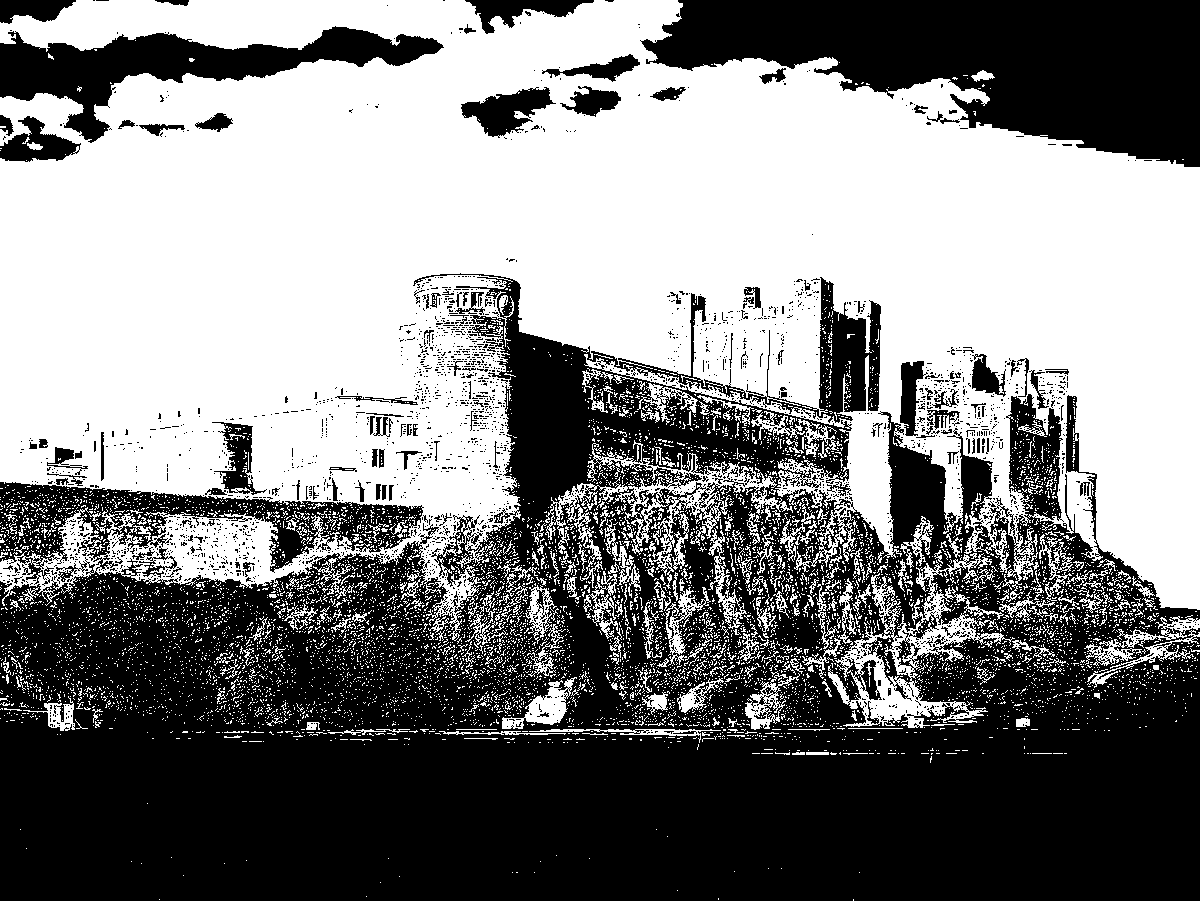
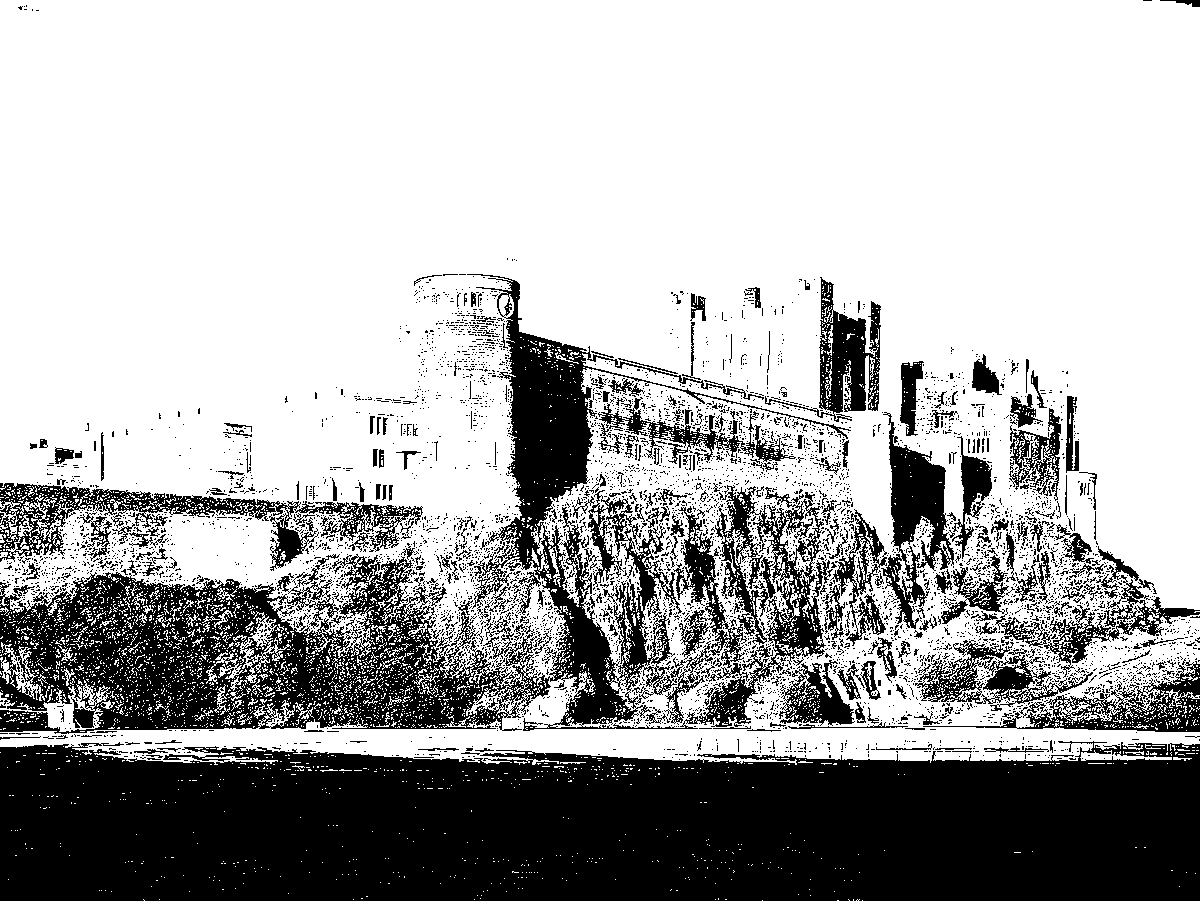
started on otsu method, calculated normalised histogram

diff --git a/Main Files/Thresholding/otsu_thresholding.py b/Main Files/Thresholding/otsu_thresholding.py
@@ -1,0 +1,21 @@
+from PIL import Image
+import numpy as np
+from matplotlib import pyplot as plt
+import math
+
+img = Image.open("castle.jpg")
+img = np.array(img)
+# converts image to greyscale
+img = np.dot(img[..., 0:3], [0.299, 0.587, 0.114])
+
+
+# Finds the normalised histogram of the image
+def histogram(image):
+    hist = np.histogram(image, bins=np.arange(256), density=True)
+    return hist
+
+
+probability, bins = histogram(img)
+
+q = probability.cumsum()
+print(q)

diff --git a/Main Files/Thresholding/simple_threshold.py b/Main Files/Thresholding/simple_threshold.py
@@ -51,6 +51,6 @@ def threshold_to_zero_inverse(image, threshold):
     return image
 
 
-# img = binary_threshold(img, 127)
-# img = Image.fromarray(img).convert('RGB')
-# img.save('threshold.png')
+img = binary_threshold(img, 100)
+img = Image.fromarray(img).convert('RGB')
+img.save('threshold.png')

diff --git a/Main Files/Thresholding/notes.md b/Main Files/Thresholding/notes.md
@@ -1,7 +1,8 @@
+
 # Thresholding
 ### Sources
 [Wikipedia Thresholding](https://en.wikipedia.org/wiki/Thresholding_(image_processing))  
-[A Brief Study of Image Thresholding Algorithms](https://en.wikipedia.org/wiki/Thresholding_(image_processing))
+[A Brief Study of Image Thresholding Algorithms](https://www.analyticsvidhya.com/blog/2022/07/a-brief-study-of-image-thresholding-algorithms/#:~:text=Image%20thresholding%20is%20a%20type,is%20done%20in%20grayscale%20images.)
 
 ### Summary
 Thresholding is when you take a greyscale image (one channel) and apply a function to each of the pixels according to an
@@ -10,5 +11,11 @@ a value smaller than the threshold white. This turns it into a binary image whic
 
 ![Binary Image](threshold.png)
 
-Check [A Brief Study of Image Thresholding Algorithms](https://en.wikipedia.org/wiki/Thresholding_(image_processing))
+Check [A Brief Study of Image Thresholding Algorithms](https://www.analyticsvidhya.com/blog/2022/07/a-brief-study-of-image-thresholding-algorithms/#:~:text=Image%20thresholding%20is%20a%20type,is%20done%20in%20grayscale%20images.)
 for algorithms used. 
+
+### Otsu's Method
+
+This is a method that attempts to find an optimal thresholding value for an image. It calculates the threshold which
+makes the largest variance in intensity between foreground (the would-be white pixels) and background
+(the would-be light pixels). [Some nice source code for Otsu's method](https://docs.opencv.org/3.4/d7/d4d/tutorial_py_thresholding.html).
